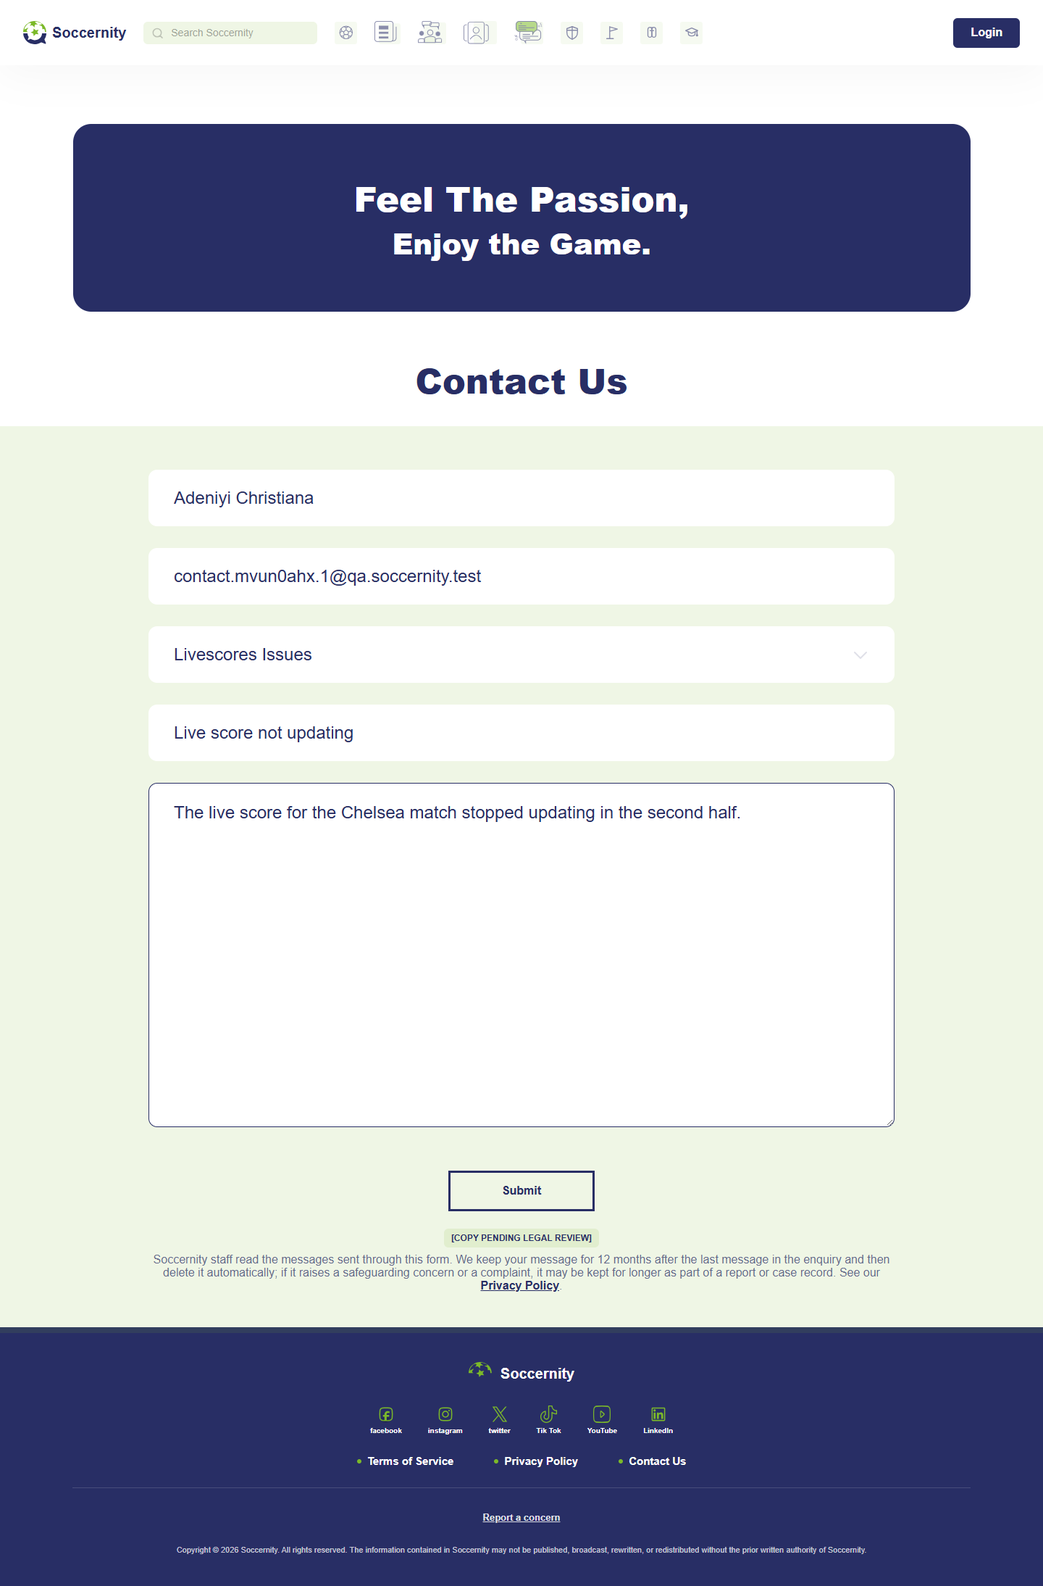
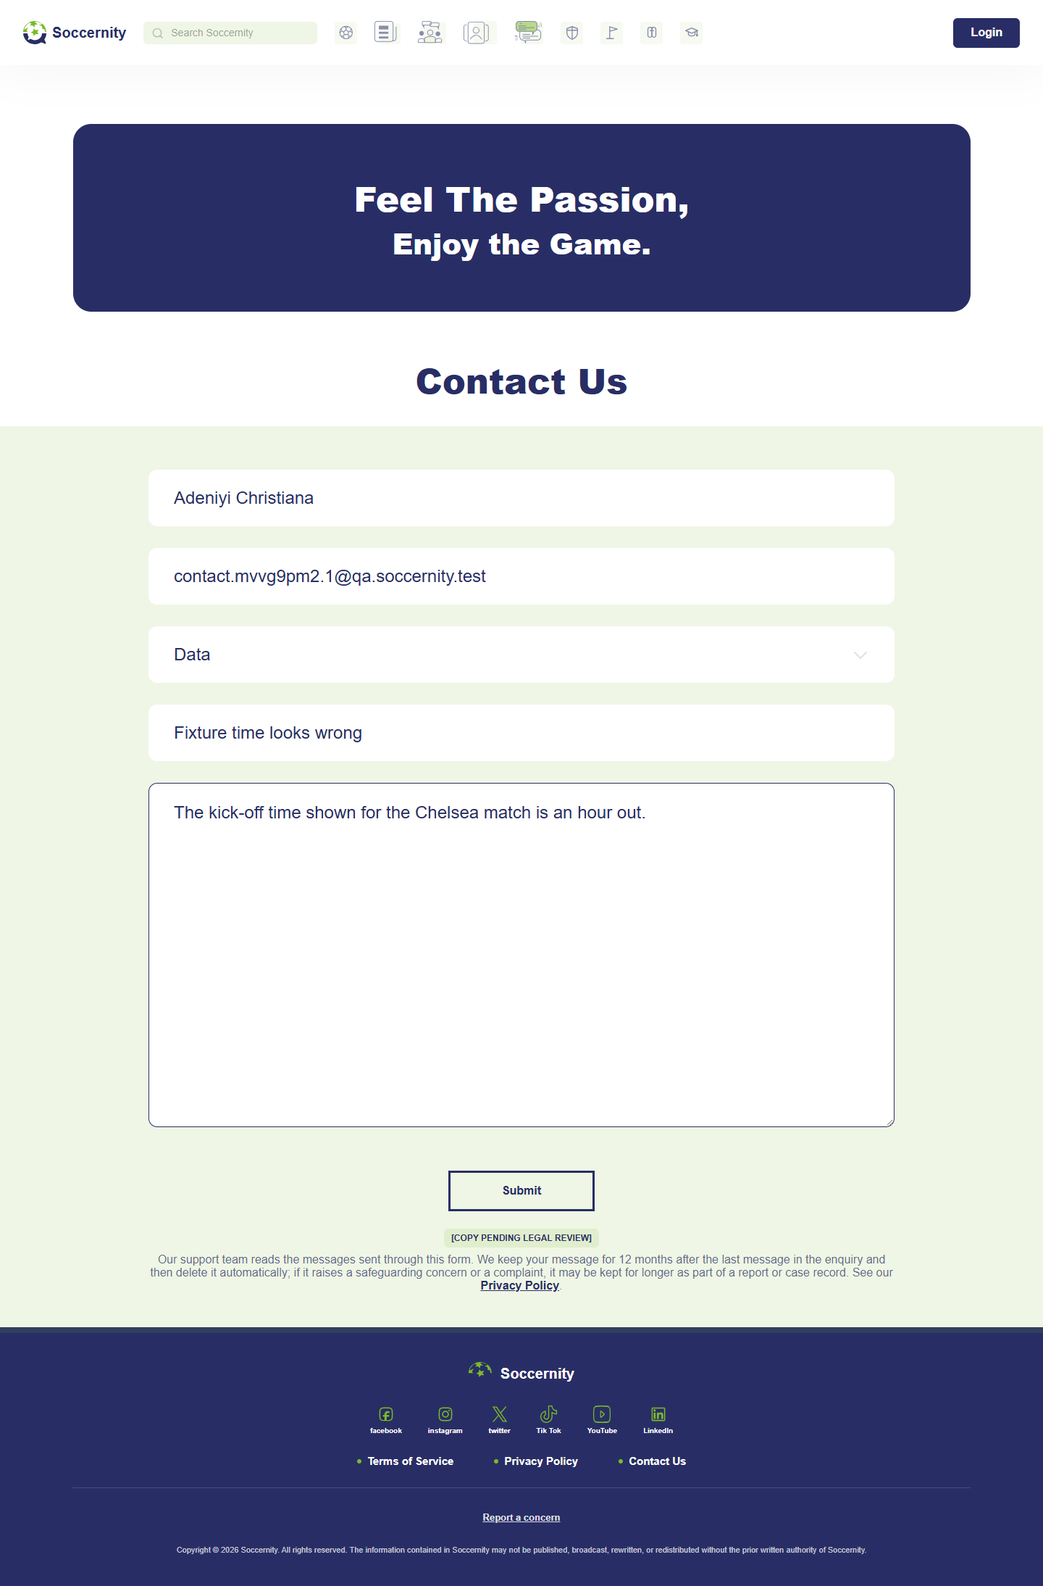
feat(contact): web and admin use the six Contact Us categories and the new notice sentence

diff --git a/apps/admin/src/pages/moderation/contactEnquiries.test.tsx b/apps/admin/src/pages/moderation/contactEnquiries.test.tsx
@@ -149,7 +149,7 @@ describe("ContactEnquiriesPage", () => {
         listItem(),
         listItem({ id: "e2", name: "Daniel Okafor", category: "editorial_complaints", subject: "Article correction", submitter: "guest" }),
         listItem({ id: "e3", name: "Seun Ajayi", status: "handled", hasEscalation: true, category: "data", subject: "Wrong fixture time" }),
-        listItem({ id: "e4", name: "Amara Nwosu", category: "livescores_issues", subject: "Late scores" }),
+        listItem({ id: "e4", name: "Amara Nwosu", category: "enquiries", subject: "Partnership question" }),
       ],
       nextCursor: null,
     });
@@ -168,12 +168,12 @@ describe("ContactEnquiriesPage", () => {
       "Flags",
       "Action",
     ]);
-    // Dates and wording as the frame draws them; the data/livescores label is split in two.
+    // Dates and wording as the frame draws them (the six Contact Us categories).
     expect(within(table).getAllByText("29 Oct 2026")).toHaveLength(4);
     expect(within(table).getByText("Technical issues")).not.toBeNull();
     expect(within(table).getByText("Editorial Complaints")).not.toBeNull();
     expect(within(table).getByText("Data")).not.toBeNull();
-    expect(within(table).getByText("Livescores Issues")).not.toBeNull();
+    expect(within(table).getByText("Enquiries")).not.toBeNull();
     expect(within(table).getAllByText("New")).toHaveLength(3);
     expect(within(table).getByText("Handled")).not.toBeNull();
     expect(within(table).getByText("Guest")).not.toBeNull();
@@ -209,11 +209,11 @@ describe("ContactEnquiriesPage", () => {
 
     // Choosing a value alone does nothing; Apply filter sends it.
     fireEvent.change(screen.getByLabelText("Status"), { target: { value: "handled" } });
-    fireEvent.change(screen.getByLabelText("Category"), { target: { value: "livescores_issues" } });
+    fireEvent.change(screen.getByLabelText("Category"), { target: { value: "feedback" } });
     expect(listContactEnquiries).toHaveBeenCalledTimes(1);
     fireEvent.click(screen.getByRole("button", { name: "Apply filter" }));
     await waitFor(() =>
-      expect(listContactEnquiries).toHaveBeenLastCalledWith({ status: "handled", category: "livescores_issues", limit: 50 }),
+      expect(listContactEnquiries).toHaveBeenLastCalledWith({ status: "handled", category: "feedback", limit: 50 }),
     );
 
     // Back to All drops the filters.
@@ -233,9 +233,9 @@ describe("ContactEnquiriesPage", () => {
       "Technical issues",
       "Editorial Complaints",
       "Data",
-      "Livescores Issues",
       "Suggestions",
-      "Enquiries/Feedback",
+      "Enquiries",
+      "Feedback",
     ]);
     expect(within(screen.getByLabelText("Status")).getAllByRole("option").map((o) => o.textContent)).toEqual(["All", "New", "Handled"]);
     expect(screen.getByText("New, handled or all.")).not.toBeNull();

diff --git a/apps/web/src/pages/ContactPage.tsx b/apps/web/src/pages/ContactPage.tsx
@@ -9,10 +9,7 @@
 // Wiring: POST /contact (api/contact.ts). A signed-in sender gets Name and Email prefilled from
 // GET /users/:id; both stay editable, and a person who has already typed is never overwritten.
 //
-// Wording is as drawn, with two disclosed points:
-//   * The dropdown frame draws FIVE options ("Data / Livescores Issues" is one entry); the server has six
-//     (data and livescores_issues). Founder decision 2026-10-30: six, with the drawn label split into
-//     "Data" and "Livescores Issues". The split wording is not in Figma (Figma follow-up).
+// Wording is as drawn, with one disclosed point:
 //   * The rate-limited line is the frame's ("Each person ..."); the API's own 429 body for the per-email
 //     limit says "Each email address ...". Both mean the same; this page always shows the frame's wording.
 //
@@ -49,15 +46,15 @@ import { useIsMobile } from "../layout/useIsMobile";
 import chevronDown from "../assets/contact/contact-chevron-down.svg";
 import "./ContactPage.css";
 
-// Labels from the Figma "Contact Category Dropdown" (6130:14653), with the one drawn entry
-// "Data / Livescores Issues" split in two (see the header comment).
+// The six categories and labels of the Figma "Contact Category Dropdown" (6130:14653 desktop /
+// 6130:14664 mobile), as drawn (founder decision 2026-10-30, recorded in the Decision Log).
 const CATEGORY_LABELS: Record<ContactCategory, string> = {
   technical_issues: "Technical issues",
   editorial_complaints: "Editorial Complaints",
   data: "Data",
-  livescores_issues: "Livescores Issues",
   suggestions: "Suggestions",
-  enquiries_feedback: "Enquiries/Feedback",
+  enquiries: "Enquiries",
+  feedback: "Feedback",
 };
 
 const ERROR_NAME = "Enter your name.";
@@ -320,7 +317,7 @@ export default function ContactPage() {
             <div className="contact-page__notice">
               <span className="contact-page__tag">[COPY PENDING LEGAL REVIEW]</span>
               <p className="contact-page__notice-text">
-                Soccernity staff read the messages sent through this form. We keep your message for 12 months after
+                Our support team reads the messages sent through this form. We keep your message for 12 months after
                 the last message in the enquiry and then delete it automatically; if it raises a safeguarding concern
                 or a complaint, it may be kept for longer as part of a report or case record. See our{" "}
                 <Link to="/privacy">Privacy Policy</Link>.

diff --git a/e2e/tests/21-contact-us-page.spec.ts b/e2e/tests/21-contact-us-page.spec.ts
@@ -28,13 +28,13 @@ function watchErrors(page: Page): string[] {
   return problems;
 }
 
-async function fillForm(page: Page, email: string, subject = 'Live score not updating') {
+async function fillForm(page: Page, email: string, subject = 'Fixture time looks wrong') {
   await page.getByLabel('Name', { exact: true }).fill('Adeniyi Christiana');
   await page.getByLabel('Email', { exact: true }).fill(email);
   await page.getByRole('combobox', { name: 'Category' }).click();
-  await page.getByRole('option', { name: 'Livescores Issues' }).click();
+  await page.getByRole('option', { name: 'Data' }).click();
   await page.getByLabel('Subject', { exact: true }).fill(subject);
-  await page.getByLabel('Message', { exact: true }).fill('The live score for the Chelsea match stopped updating in the second half.');
+  await page.getByLabel('Message', { exact: true }).fill('The kick-off time shown for the Chelsea match is an hour out.');
 }
 
 test('a guest sends a message: success state, and the row is in Postgres', async ({ page }) => {
@@ -56,8 +56,8 @@ test('a guest sends a message: success state, and the row is in Postgres', async
   const row = await db().contactEnquiry.findFirst({ where: { email } });
   expect(row).toBeTruthy();
   expect(row.name).toBe('Adeniyi Christiana');
-  expect(row.category).toBe('livescores_issues');
-  expect(row.subject).toBe('Live score not updating');
+  expect(row.category).toBe('data');
+  expect(row.subject).toBe('Fixture time looks wrong');
   expect(row.status).toBe('new');
   expect(row.userId).toBeNull(); // a guest
 

diff --git a/apps/web/src/pages/ContactPage.test.tsx b/apps/web/src/pages/ContactPage.test.tsx
@@ -108,9 +108,9 @@ describe("ContactPage — the form as drawn", () => {
       "Technical issues",
       "Editorial Complaints",
       "Data",
-      "Livescores Issues",
       "Suggestions",
-      "Enquiries/Feedback",
+      "Enquiries",
+      "Feedback",
     ]);
   });
 
@@ -139,7 +139,7 @@ describe("ContactPage — the form as drawn", () => {
   it("shows the tagged notice under the form with a real link to /privacy", () => {
     renderPage();
     expect(screen.getByText("[COPY PENDING LEGAL REVIEW]")).toBeTruthy();
-    expect(screen.getByText(/Soccernity staff read the messages sent through this form/)).toBeTruthy();
+    expect(screen.getByText(/^Our support team reads the messages sent through this form\./)).toBeTruthy();
     expect(screen.getByText(/12 months after the last message in the enquiry/)).toBeTruthy();
     const link = screen.getByRole("link", { name: "Privacy Policy" });
     expect(link.getAttribute("href")).toBe("/privacy");
@@ -243,9 +243,9 @@ describe("ContactPage — submitting", () => {
       ["Technical issues", "technical_issues"],
       ["Editorial Complaints", "editorial_complaints"],
       ["Data", "data"],
-      ["Livescores Issues", "livescores_issues"],
       ["Suggestions", "suggestions"],
-      ["Enquiries/Feedback", "enquiries_feedback"],
+      ["Enquiries", "enquiries"],
+      ["Feedback", "feedback"],
     ];
     for (const [label, value] of expected) {
       vi.mocked(submitContactEnquiry).mockReset();

diff --git a/apps/admin/src/api/contactEnquiries.ts b/apps/admin/src/api/contactEnquiries.ts
@@ -14,21 +14,20 @@ export const CONTACT_CATEGORIES = [
   "technical_issues",
   "editorial_complaints",
   "data",
-  "livescores_issues",
   "suggestions",
-  "enquiries_feedback",
+  "enquiries",
+  "feedback",
 ] as const;
 export type ContactCategory = (typeof CONTACT_CATEGORIES)[number];
 
-// The wording the Contact Us dropdown and the admin frames draw. The frames draw ONE label for two categories
-// ("Data / Livescores Issues"); the server has two, so the label is split at the slash.
+// The wording the Contact Us dropdown and the admin frames draw (the six of the Contact Category Dropdown).
 export const CONTACT_CATEGORY_LABELS: Record<ContactCategory, string> = {
   technical_issues: "Technical issues",
   editorial_complaints: "Editorial Complaints",
   data: "Data",
-  livescores_issues: "Livescores Issues",
   suggestions: "Suggestions",
-  enquiries_feedback: "Enquiries/Feedback",
+  enquiries: "Enquiries",
+  feedback: "Feedback",
 };
 
 export function contactCategoryLabel(category: string): string {

diff --git a/apps/admin/src/pages/moderation/ContactEnquiriesPage.tsx b/apps/admin/src/pages/moderation/ContactEnquiriesPage.tsx
@@ -8,9 +8,8 @@
 // Where the frames and the server differ (the server wins; listed in the PR):
 //  * The frame's tab reads "Contact enquiries (3)". The server returns no total and no count endpoint exists, and
 //    the two existing tabs ("Open Reports", "Appeals") carry no count either, so no count is drawn.
-//  * The frame's category labels are the five of the Contact Us dropdown, with "Data / Livescores Issues" as one
-//    label. The server has six categories, so that label is split ("Data", "Livescores Issues") and the Category
-//    filter offers all six.
+//  * The Category filter offers the six Contact Us categories (Technical issues, Editorial Complaints, Data,
+//    Suggestions, Enquiries, Feedback). The frame draws the field with no option list.
 //  * Open Reports and Appeals are state tabs on the queue page, not routes; here they are links back to it.
 import { type FormEvent, useState } from "react";
 import { Link } from "react-router";

diff --git a/apps/web/src/api/contact.ts b/apps/web/src/api/contact.ts
@@ -13,9 +13,9 @@ export const CONTACT_CATEGORIES = [
   "technical_issues",
   "editorial_complaints",
   "data",
-  "livescores_issues",
   "suggestions",
-  "enquiries_feedback",
+  "enquiries",
+  "feedback",
 ] as const;
 export type ContactCategory = (typeof CONTACT_CATEGORIES)[number];
 

diff --git a/CLAUDE.md b/CLAUDE.md
@@ -9608,6 +9608,7 @@ Full reasoning for every choice above: Build Plan Section 5.
 - **`backend/w7-contact-followups` (backend-api, 2026-10-30) fixes two things found after the Contact Us PRs (#552, #555, #556) -- founder decisions 2026-10-30. `services/api`, one constant in `apps/web`, tests and this file; `apps/admin`, `render.yaml`, Figma, the Build Plan docx and `docs/build-register.md` untouched.** (1) **Dead inbox link:** the support notification email linked to `/contact-enquiries`, which no admin route matches; `ADMIN_CONTACT_INBOX_PATH` is now `/moderation/contact-enquiries`, the `moderation/contact-enquiries` child route of the admin shell in `apps/admin/src/app/routes.tsx` (read from the file; the detail route is `.../:id`). The email still links to the list, not one enquiry (it carries no enquiry id, by design). **Deep links need a rewrite:** `render.yaml` defines only the two API services; no admin static site exists yet (B-179, launch gate), so the rewrite of every path to `index.html` is still to be configured when that site is created (noted in the contact README). (2) **Message limit 500 -> 3000** (`CONTACT_MESSAGE_MAX_LENGTH`, in the API constants and in `apps/web`'s copy of it) = `MESSAGE_TEXT_MAX_LENGTH`, the largest free-text user-message limit in the repo (checked by grep); subject stays 200. The `message` column is `TEXT NOT NULL` with no length CHECK (migration `20261103090000_add_contact_enquiry`; the only CHECKs are category, status and handled-together), so no migration. The escalated Report's `reason` stays capped at 500 (`CONTACT_ENQUIRY_REPORT_REASON_MAX_LENGTH`), the full message stays on the linked enquiry. **Admin display checked in real Chrome, no CSS change needed:** a 3000-character unbroken string and a 3000-character multi-line message (QA stack, real API) both lay out inside the Enquiry Detail message card and the enquiry-origin report view with no horizontal overflow (page, message box and card measured; `.ce-message` already has `white-space: pre-wrap; word-break: break-word`). **Tests, before -> after:** `services/api` contact specs + `env-completeness` 6 suites / 136 -> 139 tests (+3 in `contact.controller.http.spec.ts`: 3000 passes / 3001 is a 400, with literals so a slip in the constant fails; a 3000-character message with line breaks reaches the service whole; subject 200 / 201); contact jest e2e (`contact` + `contact-enquiry-admin`, real Postgres) 2 suites / 42 -> 43 tests (+1: a 3000-character message is stored whole); `apps/web` ContactPage + pending-copy inventory 2 files / 39 -> 40 tests (+1: exactly 3000 characters with a line break is sent unchanged; the page has no JS length error, the textarea `maxLength` is what stops a 3001st character in a browser, so there is no 3001 error case on the web). **Existing tests that used the old 500 limit, updated deliberately:** `contact.e2e-spec.ts` 'over-long message' 501 -> 3001; `contact.controller.http.spec.ts` describe title; `ContactPage.test.tsx` `maxLength` 500 -> 3000; the two escalate-reason cap tests (`contact-enquiry-admin.service.spec.ts`, `contact-enquiry-admin.e2e-spec.ts`) now use a 3000-character message so the 500 cap is exercised for a real maximum enquiry. `tsc` and eslint clean on `services/api` (contact module) and `apps/web`; Prisma generate not needed (no schema change). Playwright spec 21 6/6 (spec 22 not run: `apps/admin` unchanged). **Not run:** the full mocked suite, the full e2e suite, `apps/admin` vitest, every other Playwright spec. **Overlap, flagged:** the shared checkout (`backend/w7-contact-categories`, another session) holds UNCOMMITTED edits to the same constants (`ADMIN_CONTACT_INBOX_PATH`, 3000) plus a category migration; whichever PR merges second will conflict on `contact.service.ts`, `contact.constants.ts`, `contact.controller.http.spec.ts`, `contact.e2e-spec.ts`, `ContactPage.test.tsx` and `apps/web/src/api/contact.ts` (identical values, so the resolution is trivial).
 - **`legal/contact-us-notice-support-team` (docs only, 2026-10-30) changes who the Contact Us form notice says reads the message -- `docs/legal-copy-draft-tos-privacy-policy.md` (v0.10 to v0.11, still NOT APPROVED) and this file only; no code, Figma, docx, `docs/build-register.md` or `docs/pending-copy-manifest.md`; no tests run.** Founder decision 2026-10-30, and the founder says this phrase is not a counsel question. The first sentence of the notice (Part C block "Screen copy -- Contact Us form notice" and row 45) is now exactly: **"Our support team reads the messages sent through this form."** (was "Soccernity staff read ..."). The rest of the notice and the `[COPY PENDING LEGAL REVIEW]` tags are unchanged (the first tag sits right after that first sentence, as before). Removed because they treated the phrase as open: the row-45 remark that counsel had not seen the "staff" wording, and note (4) under the notice. A v0.11 changelog entry was added. **Follow-ups, not done (copy the sentence from the file):** `apps/web/src/pages/ContactPage.tsx` (line 323) and `ContactPage.test.tsx` (line 142) still say "Soccernity staff read ..."; the same string is in `docs/pending-copy-manifest.md` (row for `ContactPage.tsx`; the inventory test matches the source string, so source and manifest must change together) and in `docs/figma-contact-us-states-report.md` (line 48) and the Figma notice itself. Other "staff" mentions in the draft (lines 425, 845, 916) are about moderation staff, not Contact Us, and were not changed. PR opened, not merged -- Temi verifies and merges.
 - **`design/contact-categories-and-notice` (figma-design-system, 2026-10-30) updates the Contact Us category list to six and the notice's first sentence -- Figma and docs only, no application code, schema, legal text, Build Plan docx, `docs/build-register.md` or `docs/pending-copy-manifest.md`. Full detail and node ids: `docs/figma-contact-categories-report.md`; screenshots in `docs/figma-contact-categories-screens/`.** Founder decision 2026-10-30: the categories are Technical issues, Editorial Complaints, Data, Suggestions, Enquiries, Feedback (Livescores Issues removed, Enquiries/Feedback split). The Contact Category Dropdown components (desktop `6130:14653` 330 to 396 px tall, mobile `6130:14664` 165 to 198 px) now have six rows and a fifth divider, same styling and row pitch; they have no instances (overlay destinations only). Admin Contact Enquiries list sample rows `6876:31229` / `6876:31257` now read Data / Enquiries; no other category label in the Contact Us frames, form-state frames or admin frames needed changing. The notice's first sentence reads 'Our support team reads the messages sent through this form.' (legal draft v0.11) on all 14 notice nodes (4 base frames and 10 form-state frames), edited in place so the styled segments, tag chip and Privacy Policy link survive; the tags stay. 0 unbound paints on the edited components, 0 overlaps, nothing deleted. **Open:** the web and admin apps still carry the old category list until their frontend PR; the admin list draws no filter option list; the notice has no `pending-copy-manifest.md` row until the build PR puts it in the form. PR opened, not merged -- Temi verifies and merges.
+- **`frontend/w7-contact-categories-and-notice` (figma-to-code, 2026-10-30) moves the Contact Us categories and notice wording in `apps/web` and `apps/admin` to the merged backend and Figma changes (PRs #559, #561, #557) -- `apps/web`, `apps/admin`, `e2e/tests/21-*`, `docs/pending-copy-manifest.md` and this file only; `services/api`, the Build Plan docx and `docs/build-register.md` untouched. The prerequisite PRs #557, #559, #560 and #561 were confirmed MERGED first. The live Figma dropdown components `6130:14653` / `6130:14664` were read and match: six options.** (1) The category list in `apps/web/src/api/contact.ts` and `ContactPage.tsx`, and in `apps/admin/src/api/contactEnquiries.ts` (so the admin Category filter, list and detail labels), is the six keys `technical_issues`, `editorial_complaints`, `data`, `suggestions`, `enquiries`, `feedback` with the labels Technical issues, Editorial Complaints, Data, Suggestions, Enquiries, Feedback. The comments saying the drawn label was split and that the founder chose six at an earlier miscount are removed (the six is the 2026-10-30 decision recorded in the Decision Log). (2) The notice's first sentence is now "Our support team reads the messages sent through this form." (legal draft v0.11, the founder's wording, not counsel's); its `docs/pending-copy-manifest.md` row is updated and still tagged `[COPY PENDING LEGAL REVIEW]`; the second sentence and the Privacy Policy link are unchanged. (3) Tests changed deliberately, in place (no test added or removed): `ContactPage.test.tsx` (dropdown order, each category's server value, notice sentence), `contactEnquiries.test.tsx` (list label, filter value, six-option filter), and Playwright spec 21 (now picks Data and stores `data`, with a matching subject and message). **Verification (measured; before taken by stashing the change in the same worktree):** `apps/web` vitest 99 files / 1,012 tests before and after; `apps/admin` 25 files / 400 tests before and after; 0 failures; `tsc --noEmit`, eslint and `vite build` clean on both; the pending-copy inventory test 15 tests passing. Playwright, ONLY specs 21 and 22 (real Chrome, real API, Postgres, Redis): 13 passed / 0 failed (6 + 7). **Not run:** every other Playwright spec, every `services/api` suite. No frame and server disagreement was found. The run rewrote the `docs/contact-us-screens/` screenshots (they show the new notice sentence, kept) and the `docs/b046-screens/` ones (reverted, no visual change). PR opened, not merged -- Temi verifies and merges.
 - Before trusting any of the above, check Build Plan Section 9 (Decision
   Log) directly rather than this summary if something looks off — this
   section has gone stale before.

diff --git a/docs/pending-copy-manifest.md b/docs/pending-copy-manifest.md
@@ -98,7 +98,7 @@ Add the tag to the string in source and add a row here (file, the string exactly
 | `apps/web/src/pages/community/PostMedia.tsx` | Your post stays hidden from other people until every picture has been approved. Remove this picture or choose another. [COPY PENDING LEGAL REVIEW] | Author post card, media rejected `6849:29719` / `6849:29813` |
 | `apps/web/src/pages/community/FinalWeekPanel.tsx` | Everything you upload is checked before it can be shown, and your video stays hidden from everyone but you until the reveal. [COPY PENDING LEGAL REVIEW] | Contest final entry 01 Choose a video, desktop `6850:29675` / mobile `6850:29921` |
 | `apps/admin/src/pages/media-review/MediaReviewItemPage.tsx` | Say why this {…} is being rejected. The uploader sees this reason. [COPY PENDING LEGAL REVIEW] | Admin media review, Reject dialog `6852:30985` / `6852:31327` (the frame says "picture"; the code names the file type) |
-| `apps/web/src/pages/ContactPage.tsx` | [COPY PENDING LEGAL REVIEW] Soccernity staff read the messages sent through this form. We keep your message for 12 months after the last message in the enquiry and then delete it automatically; if it raises a safeguarding concern or a complaint, it may be kept for longer as part of a report or case record. See our Privacy Policy. | Contact Us form notice: `Notice — Contact Us form` on `6113:14053`, `6113:14199`, `6115:14611`, `6115:14684` and the form-state frames (`6887:32445` desktop, `6887:32453` mobile); source `docs/legal-copy-draft-tos-privacy-policy.md` Part C, "Screen copy -- Contact Us form notice"; one chip covers both sentences; B-046, B-047, Decision Log #440, #444, #445 |
+| `apps/web/src/pages/ContactPage.tsx` | [COPY PENDING LEGAL REVIEW] Our support team reads the messages sent through this form. We keep your message for 12 months after the last message in the enquiry and then delete it automatically; if it raises a safeguarding concern or a complaint, it may be kept for longer as part of a report or case record. See our Privacy Policy. | Contact Us form notice: `Notice — Contact Us form` on `6113:14053`, `6113:14199`, `6115:14611`, `6115:14684` and the form-state frames (`6887:32445` desktop, `6887:32453` mobile); source `docs/legal-copy-draft-tos-privacy-policy.md` Part C, "Screen copy -- Contact Us form notice"; one chip covers both sentences; first sentence is the exact v0.11 wording (founder decision 2026-10-30, not counsel’s); B-046, B-047, Decision Log #440, #444, #445 |
 
 ## OPEN: services/api email wording (Decision Log #406, build register B-124)
 
